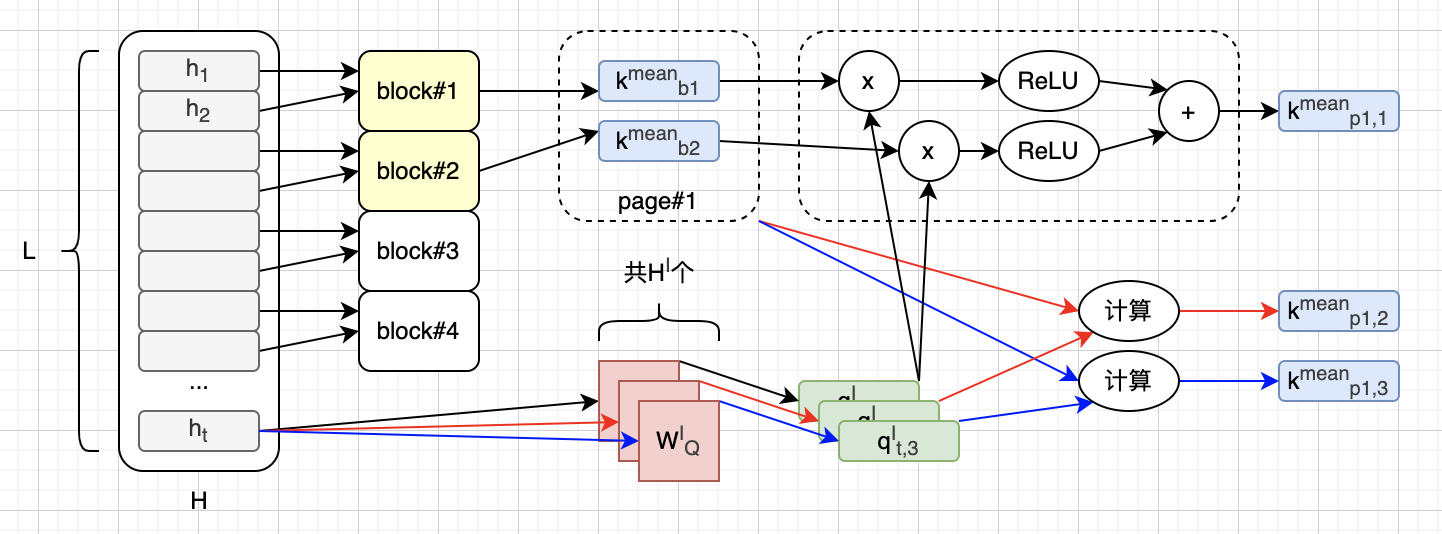
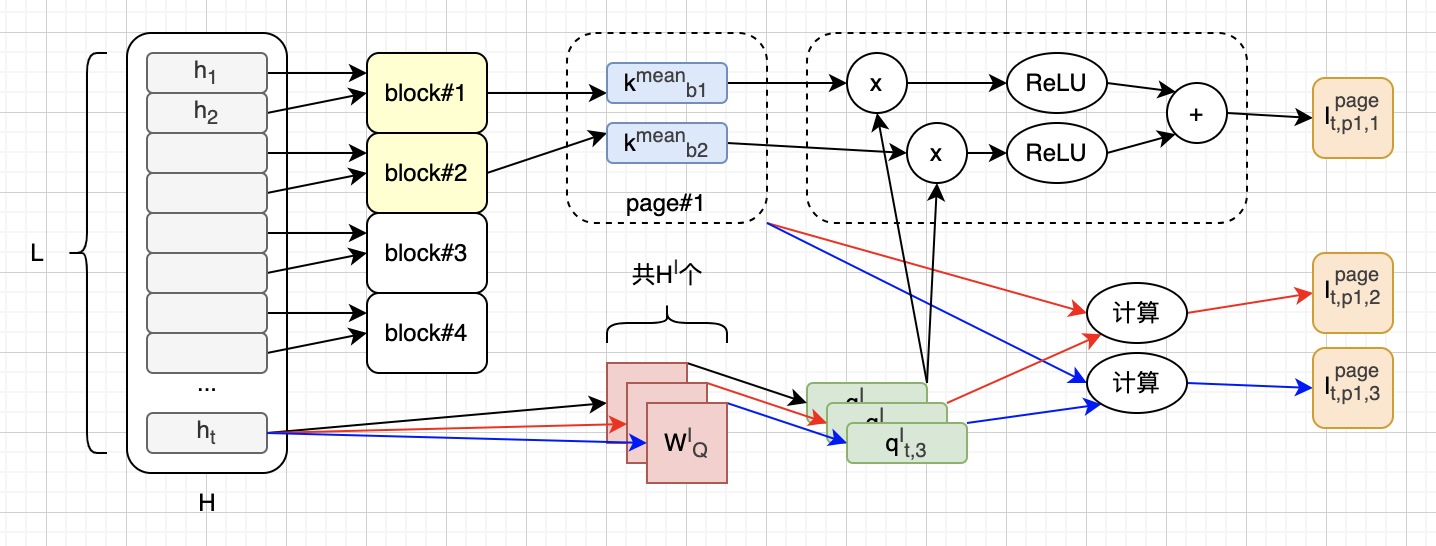
Update LSA.md

Changed region(s): [[0.0, 0.03, 1.0, 0.9588], [0.8579, 0.779, 0.8886, 0.809], [0.6741, 0.6891, 0.7047, 0.7191]]

diff --git a/notes/2026-08-22-LSA.md b/notes/2026-08-22-LSA.md
@@ -211,7 +211,7 @@ $$
 \tag{\S3.3}
 $$
 
-上面这个计算 $\mathbf{k}_n^{mean}$ 的公式，可以画成下面这样：
+以第一页为例，上面这个计算 $\mathbf{k}_n^{mean}$ 的公式，可以画成下面这样：
 
 <img src="./images/lsa/hi2.png" alt="HI" style="zoom:50%;" />
 
@@ -229,11 +229,11 @@ I_{t,p}^{\text{page}} = \sum_{j=1}^{H^I} w_{t,j}^I \cdot
 \tag{L9}
 $$
 
-对于每一页（编号`p`），以及每一个indexer头（编号`j`），都可以根据上面高亮的这个求和公式算出来一个中间值。我们把这个中间值叫做 $\mathbf{k}_{p,j}^{\text{mean}}$ 。以第一页为例，这个计算过程可以表示成下面这样：
+对于每一页（编号`p`），以及每一个indexer头（编号`j`），都可以根据上面高亮的这个求和公式算出来一个中间值。我们把这个中间值叫做 $I_{t,p,j}^{page}$ 。以第一页为例，这个计算过程可以表示成下面这样：
 
 <img src="./images/lsa/hi3.png" alt="HI" style="zoom:50%;" />
 
-而完整公式的计算过程，可以用下图表示：
+把每个indexer头对应的 $I_{t,p,j}^{page}$ 加权求和，就得到了最终的打分。权重`w`和算token分数时是完全一样的。完整公式的计算过程，可以用下图表示：
 
 <img src="./images/lsa/hi4.png" alt="HI" style="zoom:50%;" />
 
@@ -273,7 +273,7 @@ $$
 
 LSA论文指出，相比Top-K计算量，打分计算量可以忽略。粗筛（公式10）的计算复杂度，大致是 $O(L/P)$ 。细筛（公式12）的计算复杂度，大致是 $O(M \cdot P)$ 。于是，用上HI优化之后，总体的筛选复杂度从 $O(L)$ 降到了 $O(L/P + M \cdot P)$ 。
 
-在LSA论文里，页大小`P`固定取值128（也就是一页128个token），块大小`B`和`M`则属于超参数。论文指出，`B=8`（即一页16个块）是比较合理的值。
+在LSA论文里，页大小`P`固定取值128（也就是一页128个token），块大小`B`和`M`则属于超参数。论文指出，`B=8`（即一页16个块）、`M=1024`是比较合理的值。
 
 
 
